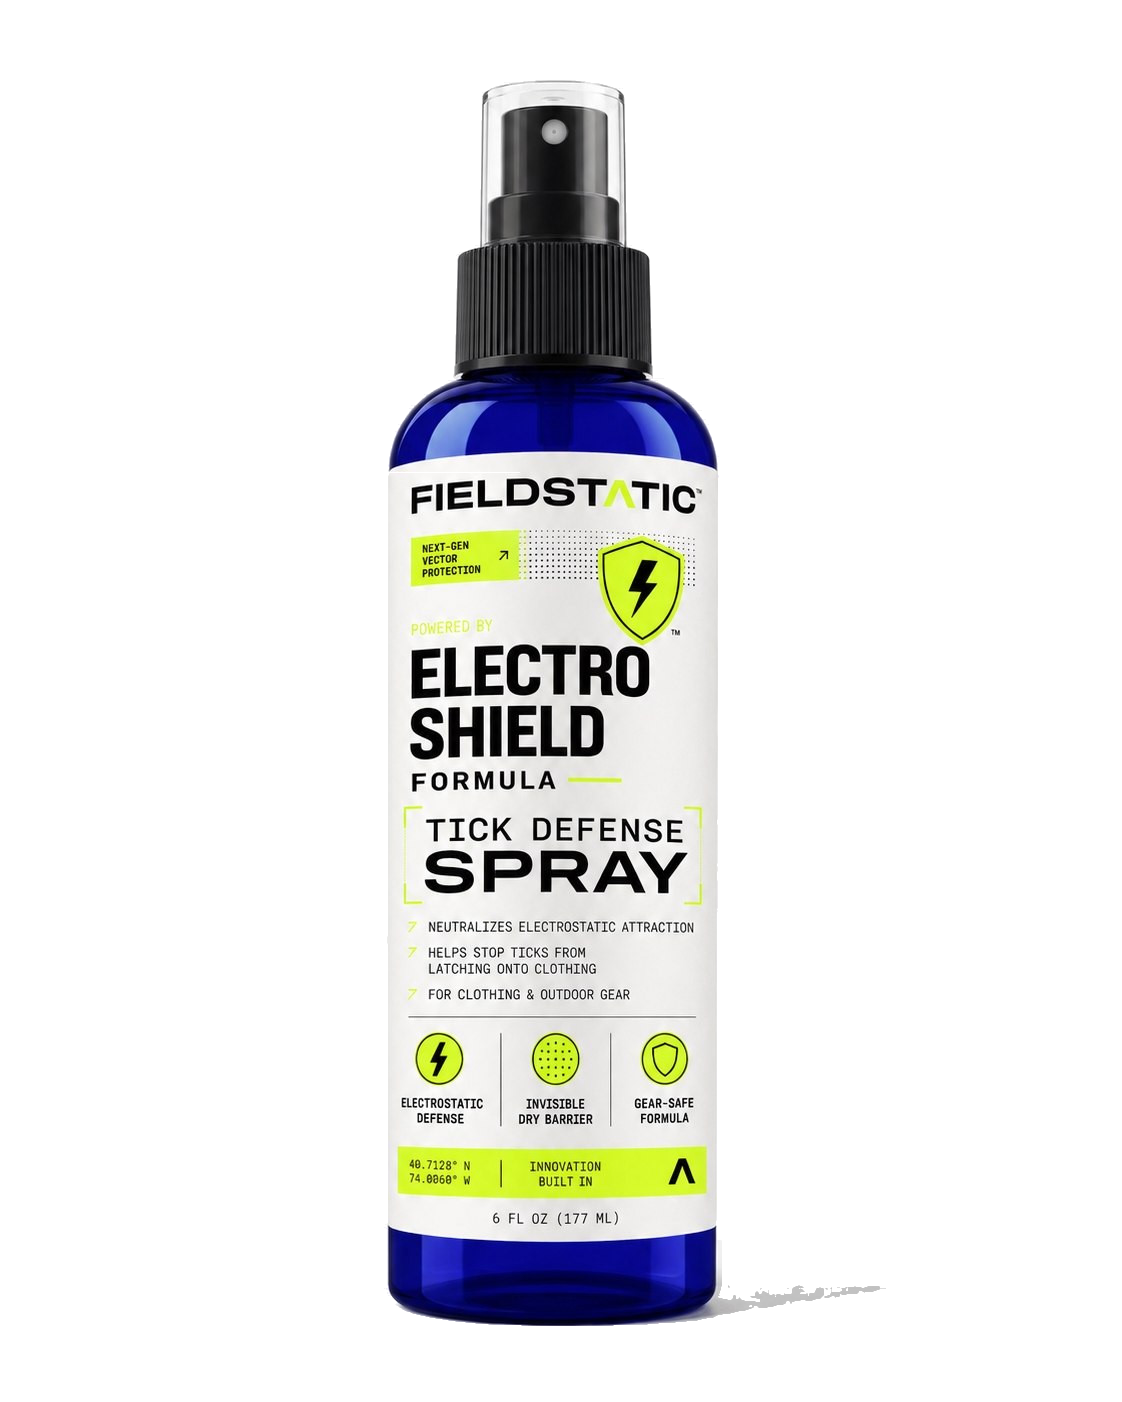
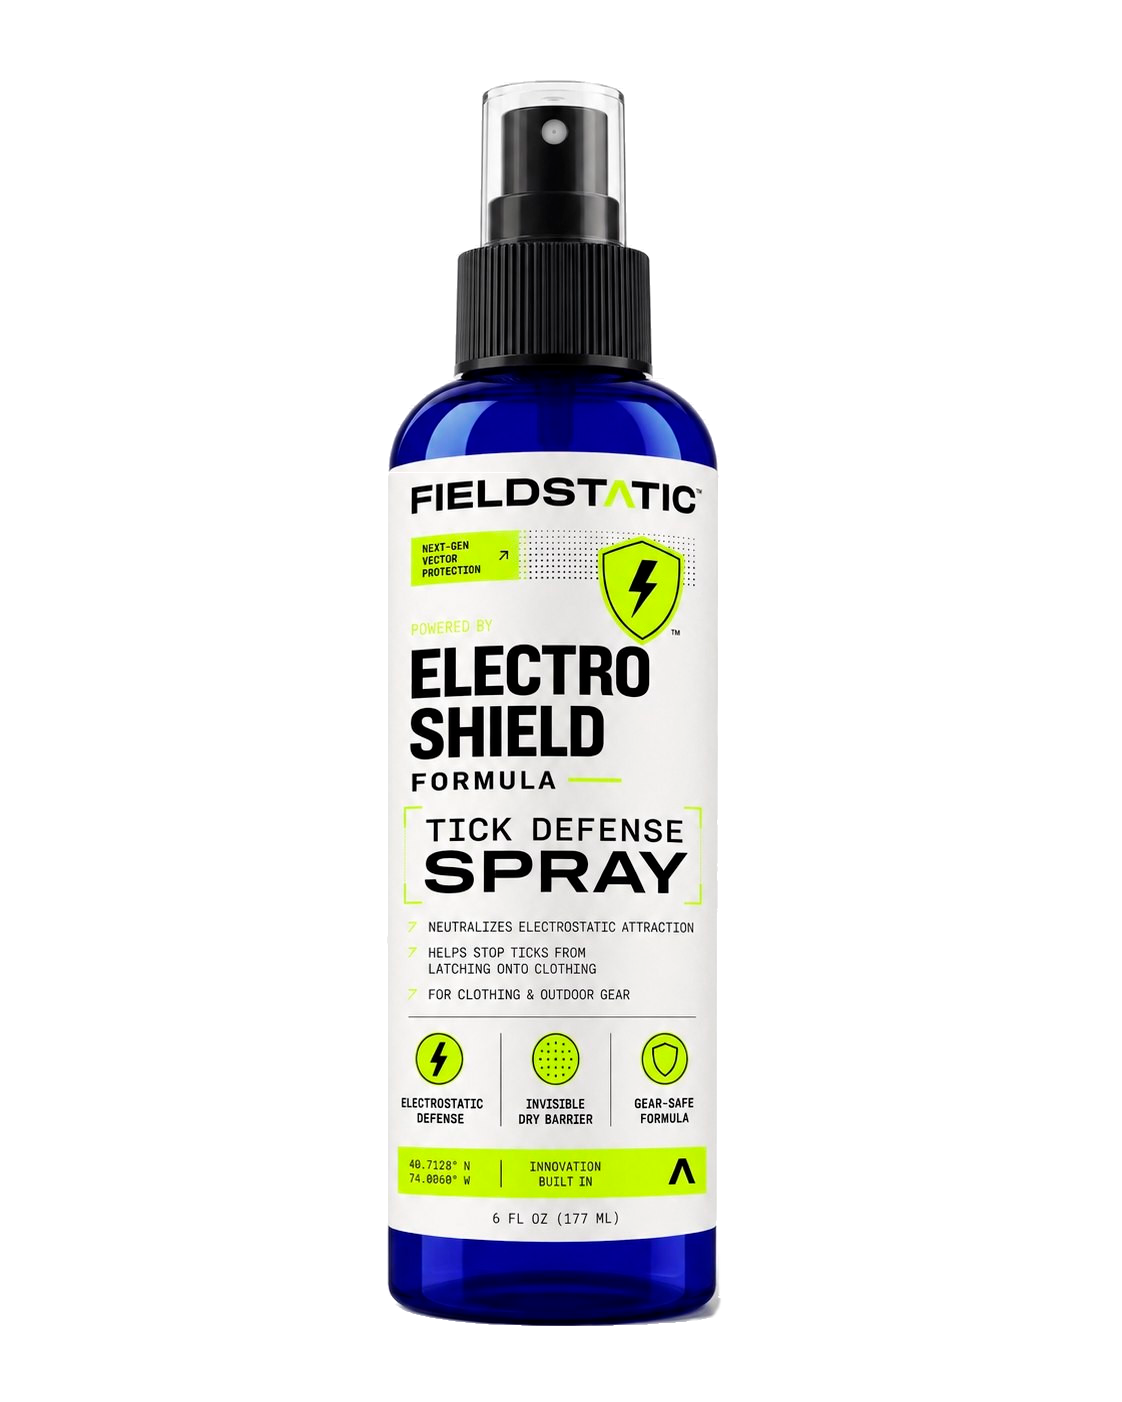
Marquee: mobile spacing + seamless loop; update hero bottle image
- Mobile: add 120px top margin to the lime marquee so the gap above the
  line mirrors the gap below it (to the science heading). The hero-grid's
  own padding can't carry this because the shared .wrap rule zeroes its
  vertical padding on small screens.
- Build the marquee from one unit padded wider than the viewport, then
  clone it, and scale the animation duration to width — fixes the empty
  "ugly restart" the strip showed on wide screens.
- Refresh the hero bottle photo (asset updated by the owner).

diff --git a/site/index.html b/site/index.html
@@ -241,6 +241,7 @@
   /* responsive */
   @media (max-width:900px){
     .hero-grid{grid-template-columns:1fr;min-height:auto;gap:8px;}
+    .marquee{margin-top:120px;} /* mobile: gap above the lime line mirrors the gap below it (to the next section's heading) */
     .stage{order:-1;min-height:420px;}
     .bottle{height:54vh;}
     .sci-head,.diff{grid-template-columns:1fr;gap:26px;}
@@ -492,13 +493,21 @@
     });
   }
 
-  /* marquee */
+  /* marquee — build ONE "unit" that's at least as wide as the screen, then
+     clone it once. The track scrolls 0 → -50% (exactly one unit width), so two
+     identical units loop seamlessly with no empty gap / ugly restart at any
+     viewport. Duration scales with width to keep the scroll speed constant. */
   var mt=document.getElementById('mtrack');
   if(mt){
     var items=['Electrostatic defense','Invisible dry barrier','Gear-safe formula','Not DEET','Odorless','Pet-safe','Apply once · go outside'];
-    var unit=document.createElement('span');
-    items.forEach(function(t){ unit.appendChild(document.createTextNode(t)); var i=document.createElement('i'); i.textContent='✦'; unit.appendChild(i); });
-    mt.appendChild(unit); mt.appendChild(unit.cloneNode(true));
+    var addItems=function(span){ items.forEach(function(t){ span.appendChild(document.createTextNode(t)); var i=document.createElement('i'); i.textContent='✦'; span.appendChild(i); }); };
+    var unit=document.createElement('span'); addItems(unit); mt.appendChild(unit);
+    var need=Math.max(window.innerWidth,(window.screen&&window.screen.width)||0)+40;
+    var guard=0;
+    while(unit.getBoundingClientRect().width<need&&guard<24){ addItems(unit); guard++; }
+    var SPEED=46; /* px per second — matches the original feel */
+    mt.style.animationDuration=Math.max(18,unit.getBoundingClientRect().width/SPEED).toFixed(1)+'s';
+    mt.appendChild(unit.cloneNode(true));
   }
 
   /* reveal on scroll (scroll/load driven, with a hard fallback for preview